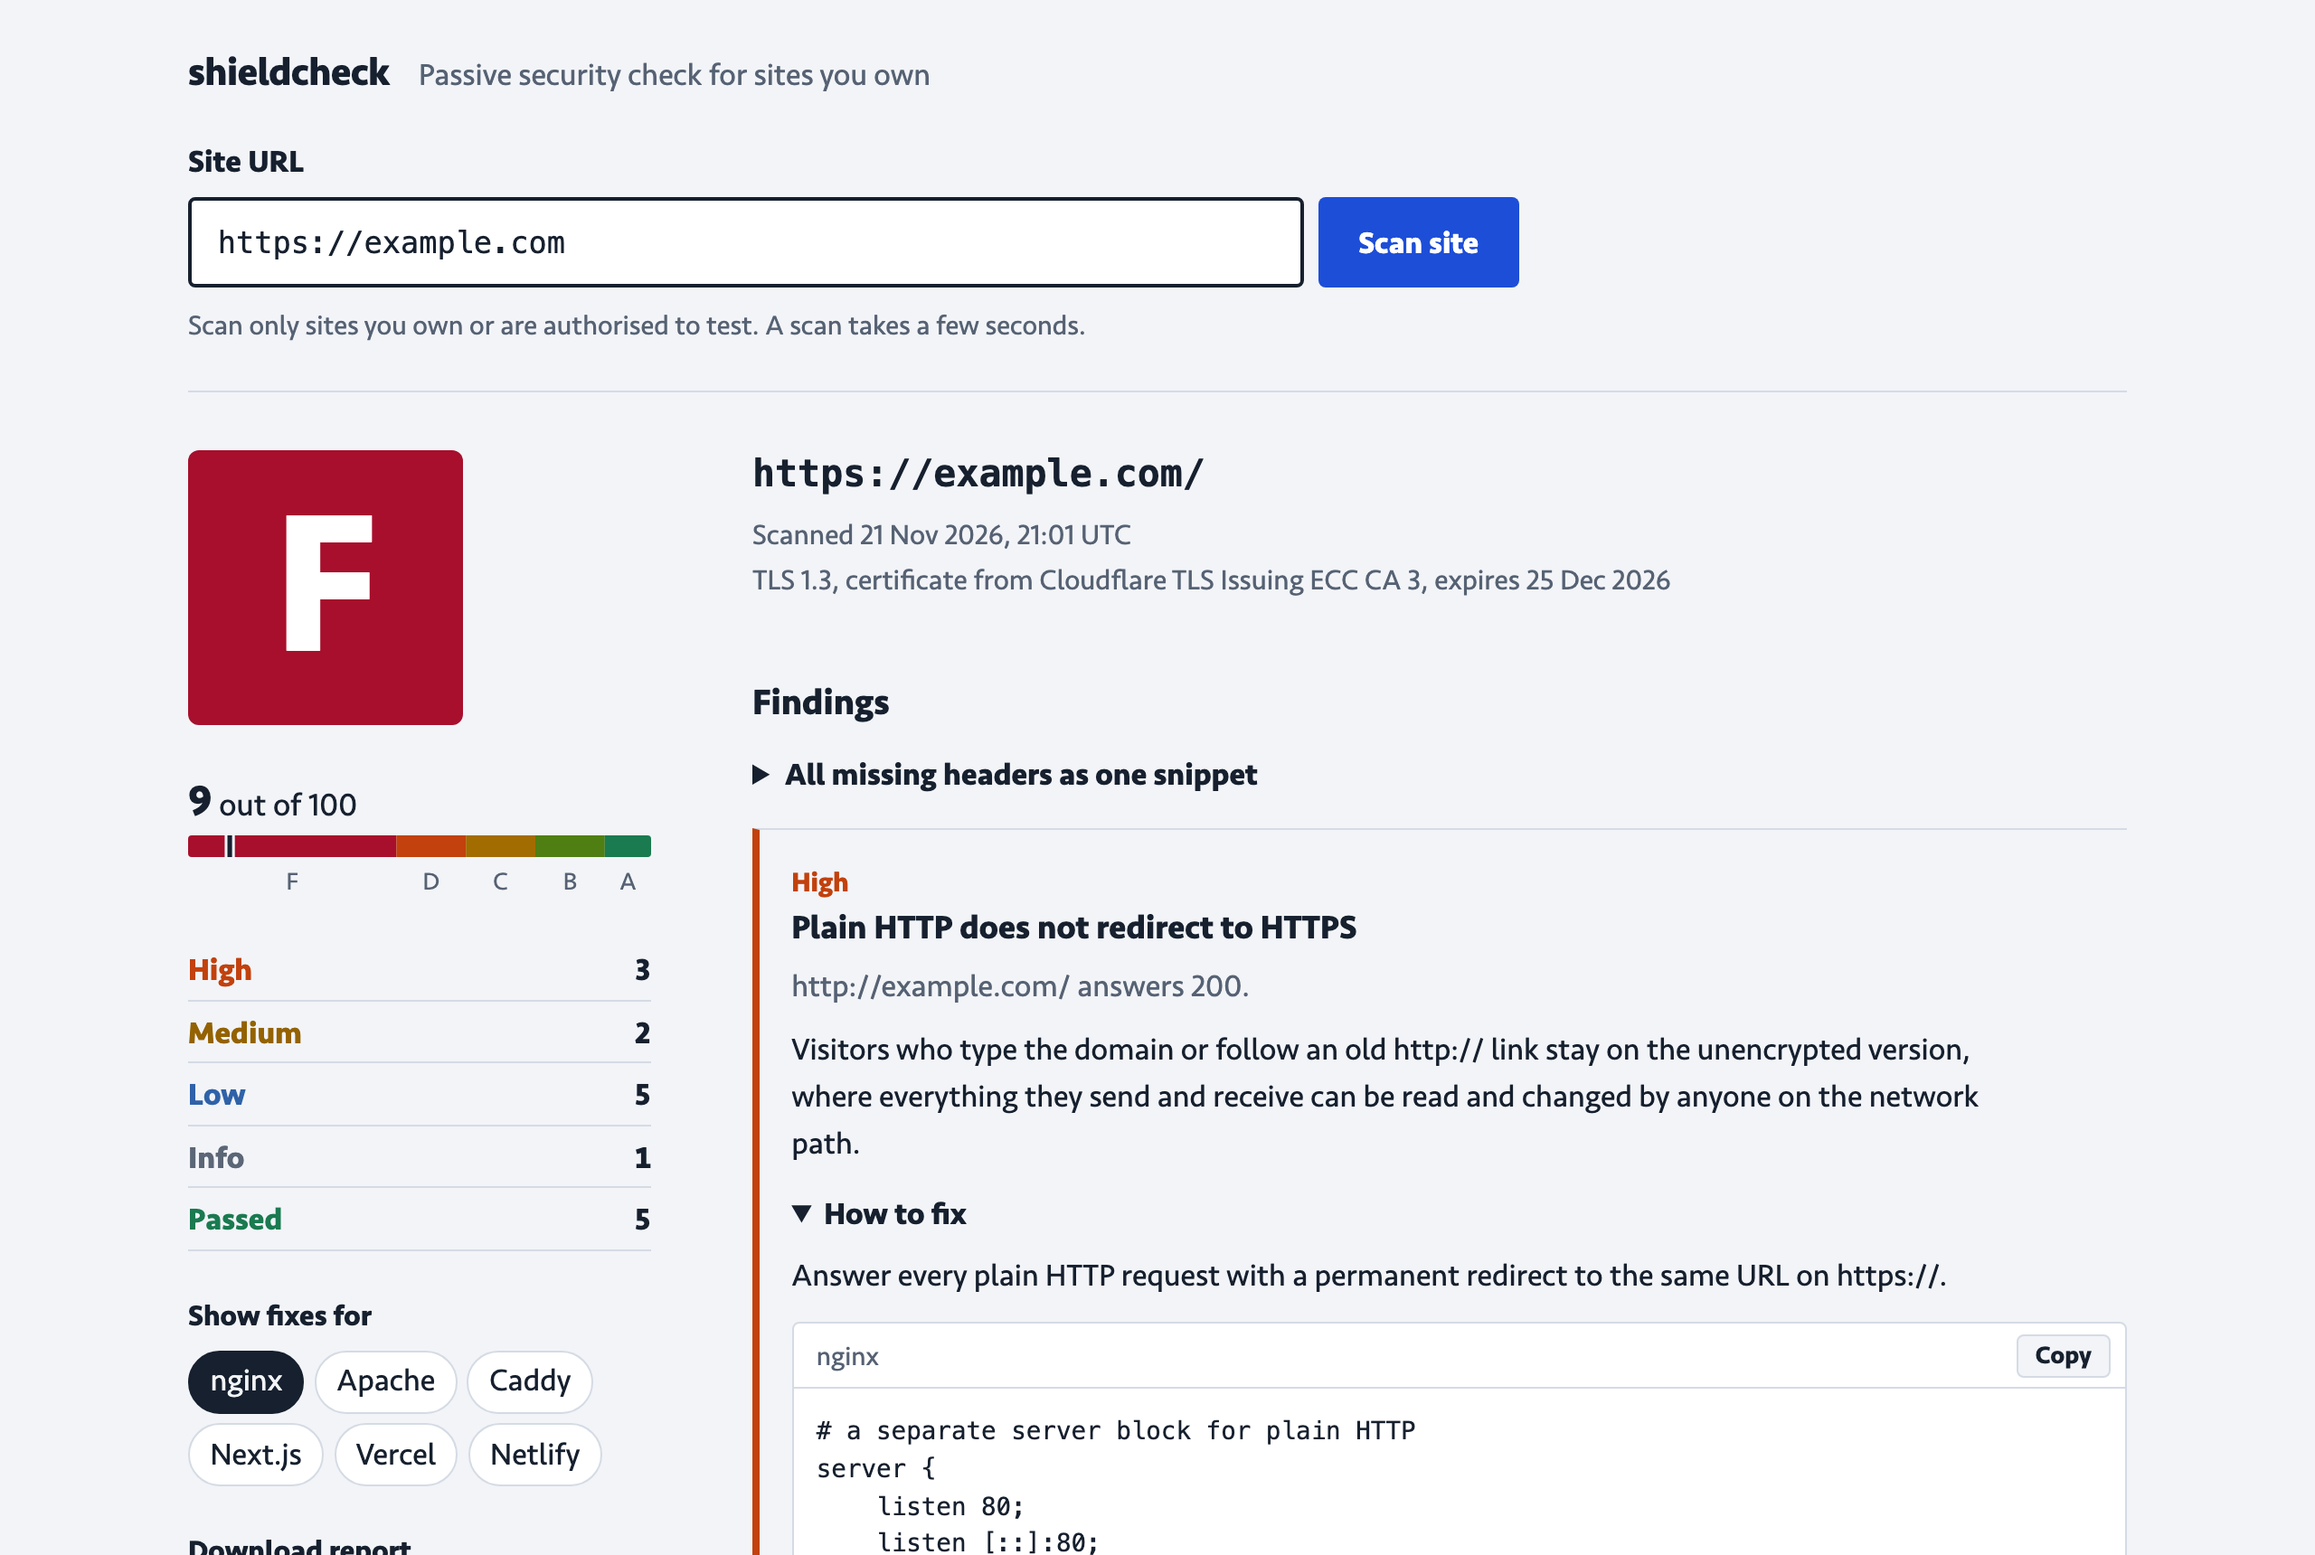
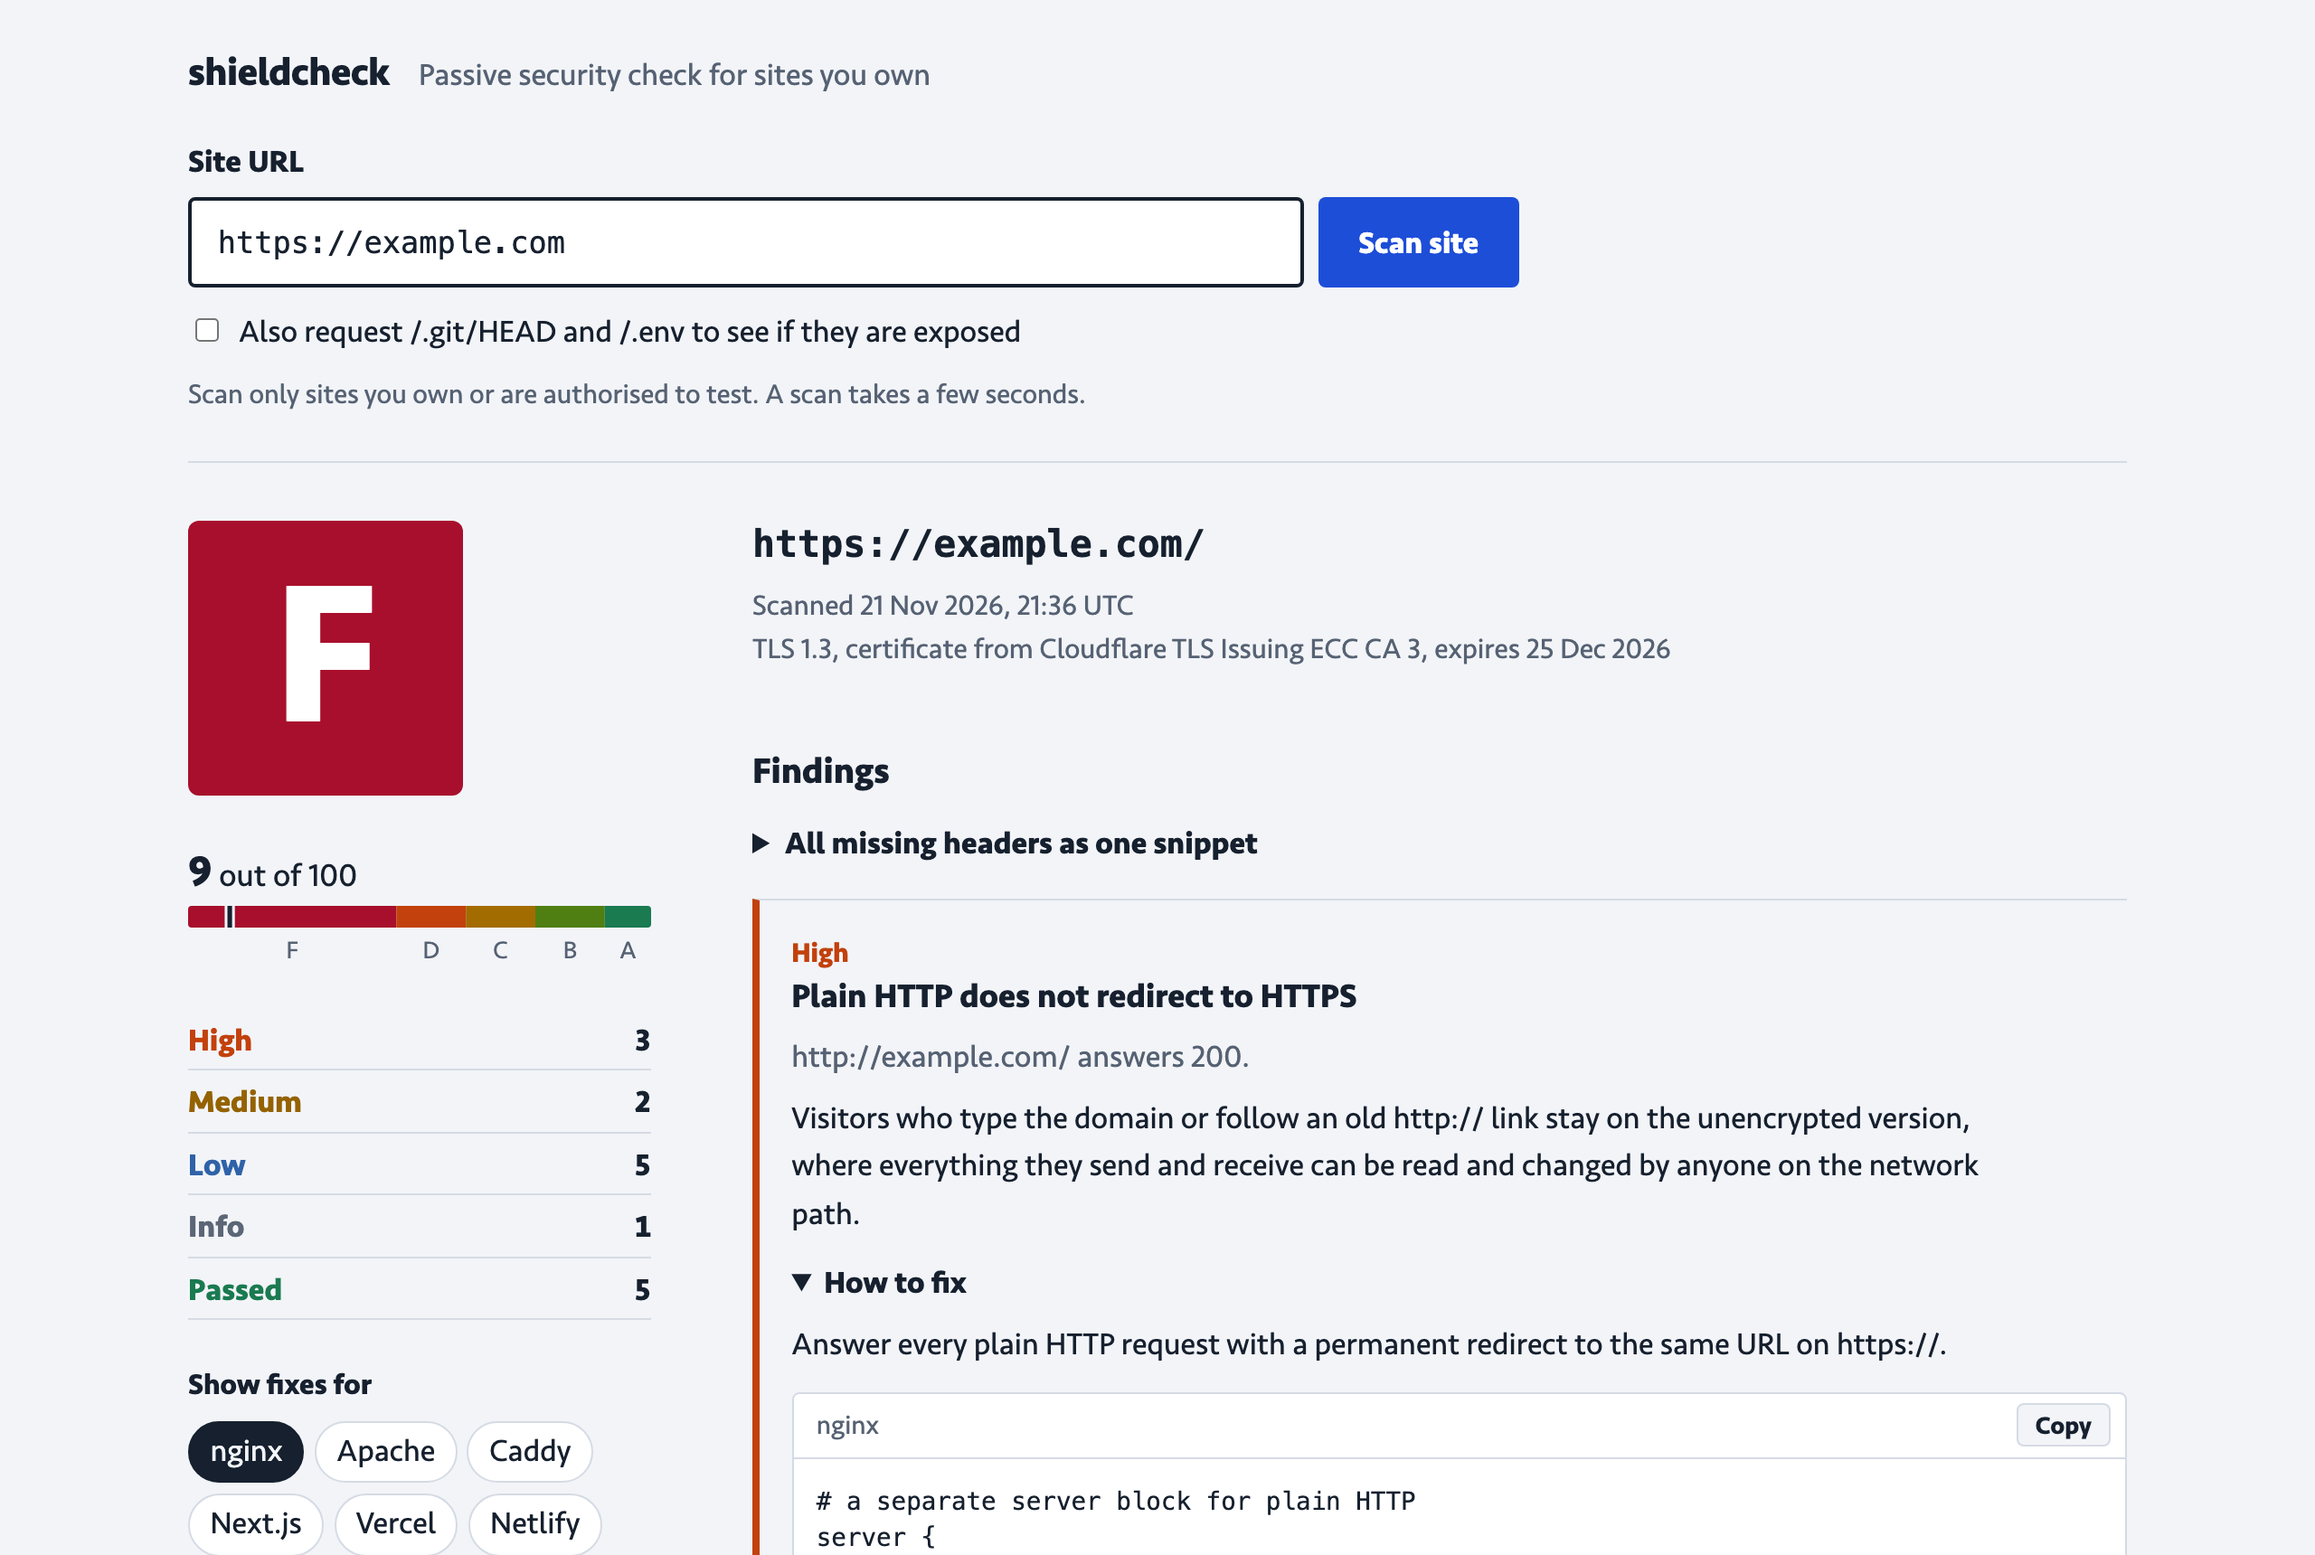
Docs: retake README screenshots, changelog for the design pass

diff --git a/CHANGELOG.md b/CHANGELOG.md
@@ -4,6 +4,47 @@ All notable changes to this project are documented here. The format follows
 [Keep a Changelog](https://keepachangelog.com/en/1.1.0/) and the project uses
 [Semantic Versioning](https://semver.org/).
 
+## [Unreleased]
+
+A design and UX pass on the web UI and the HTML report: screenshots at
+1280px and 390px in light and dark, an axe-core run (WCAG 2.2 AA and best
+practice) on the home, report and error pages, and the CLI error messages.
+
+### Fixed
+
+- Scanning `http://site` for a site that has working HTTPS was graded as
+  "no HTTPS" (critical). The scan now tries the same address on `https://`
+  and, if a browser would accept its certificate, grades that, so the result
+  matches scanning `https://site`: the missing redirect (high).
+- Fix snippets wider than the column could only be scrolled with a mouse.
+  They can now be focused and scrolled with the keyboard.
+- The page had no `<main>` landmark around the form and the intro; there is
+  now exactly one.
+
+### Changed
+
+- While a scan runs, the web UI shows a status line ("Scanning ...", with a
+  spinner that stands still under reduced motion, announced to screen
+  readers) and dims the previous result, instead of only relabelling the
+  button.
+- A scan that cannot start says why in plain words before the network error:
+  nothing listening at the address, a hostname that does not exist, or no
+  answer in time. A URL that does not parse no longer repeats itself inside
+  Go's parse error. Both the CLI and the web UI show this.
+- README screenshots retaken from the running UI (one real scan of
+  example.com); the findings shot is now the dark theme.
+
+### Notes for whoever works on this next
+
+- Checked and left alone: typography, spacing, focus rings, the platform
+  switch, colour contrast (axe finds no violations now), the 390px layout,
+  print styles, the terminal report. The UI has no other motion.
+- The axe and screenshot scripts were throwaway and are not in the repo.
+  To look at the UI, run `shieldcheck serve --port 4115 --allow-private` and
+  any local fixture server.
+- Still true: the Windows binary has not been run in a real console; no
+  container image.
+
 ## [0.1.2] - 2026-11-22
 
 A second independent first-run review: fresh clone, the release archive and

diff --git a/README.md b/README.md
@@ -120,9 +120,9 @@ shieldcheck serve
 # shieldcheck UI on http://127.0.0.1:4110 (Ctrl+C to stop)
 ```
 
-The UI runs the same scan and renders the same report, with download links for the HTML, JSON and SARIF versions. It follows your system's light or dark setting.
+The UI runs the same scan and renders the same report, with download links for the HTML, JSON and SARIF versions. It follows your system's light or dark setting. While a scan runs, a status line names the URL being scanned; a scan that cannot start (nothing listening, a hostname that does not exist, a timeout, a private address) says why in plain words.
 
-![Findings for example.com in the web UI with the Next.js fixes selected](docs/screenshots/findings.png)
+![Findings for example.com in the web UI in dark mode, with the Next.js fixes selected](docs/screenshots/findings.png)
 
 ### GitHub Action
 
@@ -184,6 +184,7 @@ shieldcheck is strictly passive. One scan makes:
 
 - one GET for the page, following up to 10 redirects by hand so every hop's headers and cookies are seen
 - one GET to `http://<host>/` to see whether plain HTTP redirects to HTTPS, plus one per redirect that stays on `http://` (skipped when the scan started on `http://` or uses a non-standard port)
+- when an `http://` address is not redirected to HTTPS: one more TLS handshake and GET for the same address on `https://`; if a browser would accept its certificate, that page is graded, as if `https://` had been typed
 - five TLS handshakes: one to read the certificate, then one each for TLS 1.0, 1.1, 1.2 and 1.3, plus one for each other HTTPS host in the redirect chain
 - one GET for `/.well-known/security.txt`
 - TXT lookups for SPF and DMARC on the hostname and its parent domains
